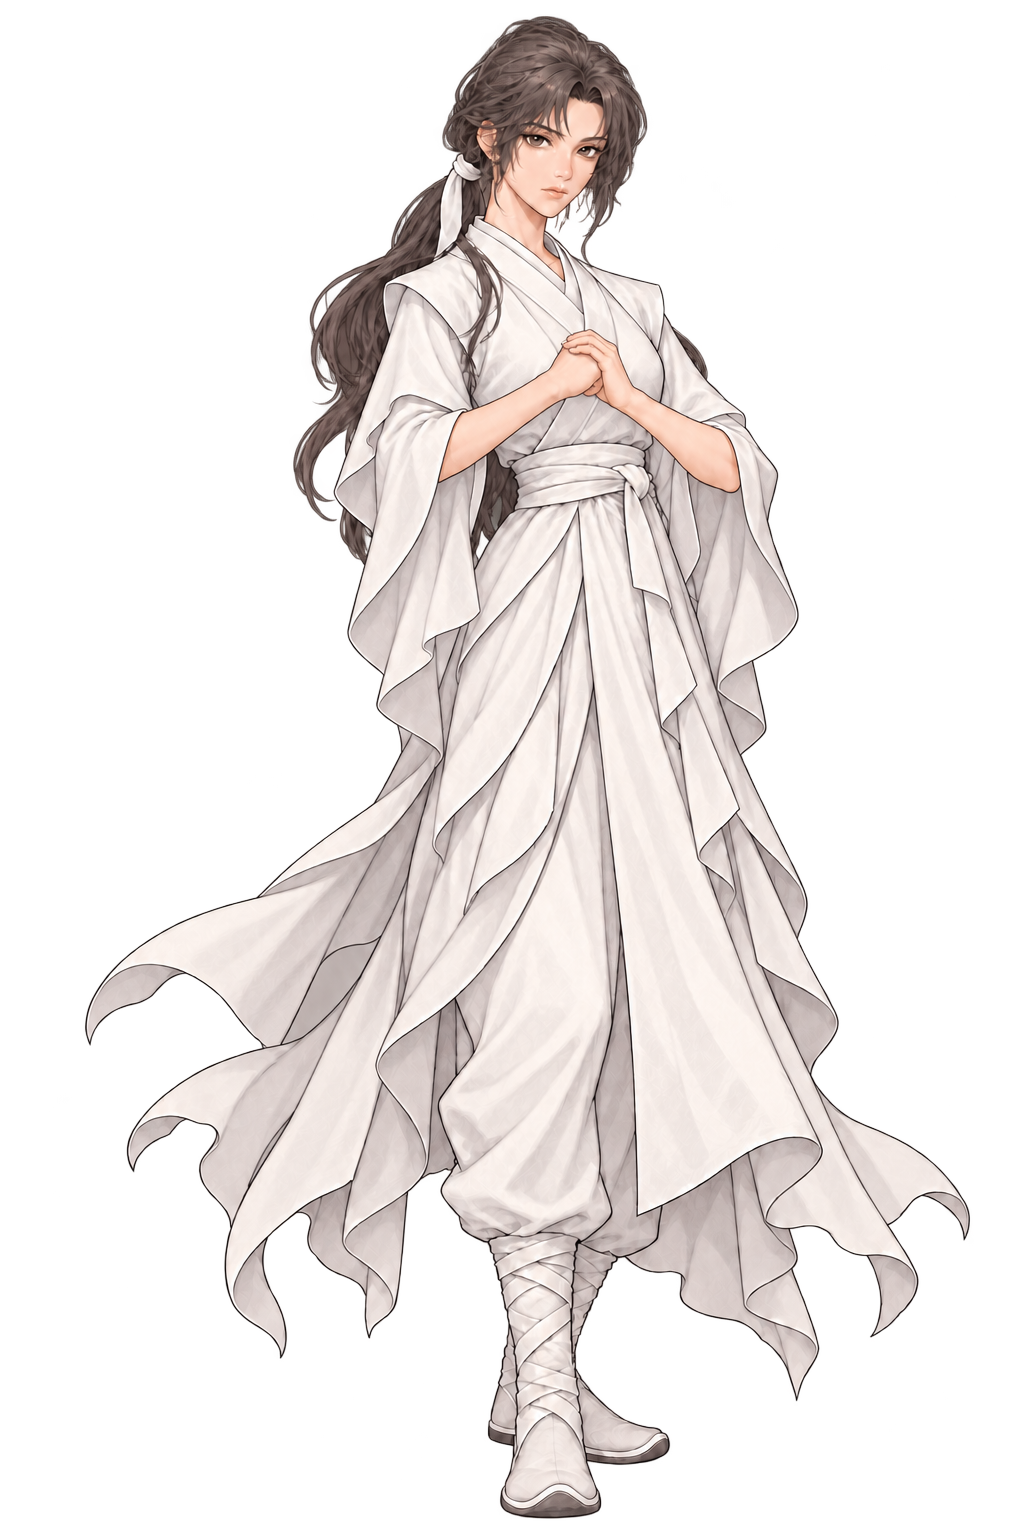
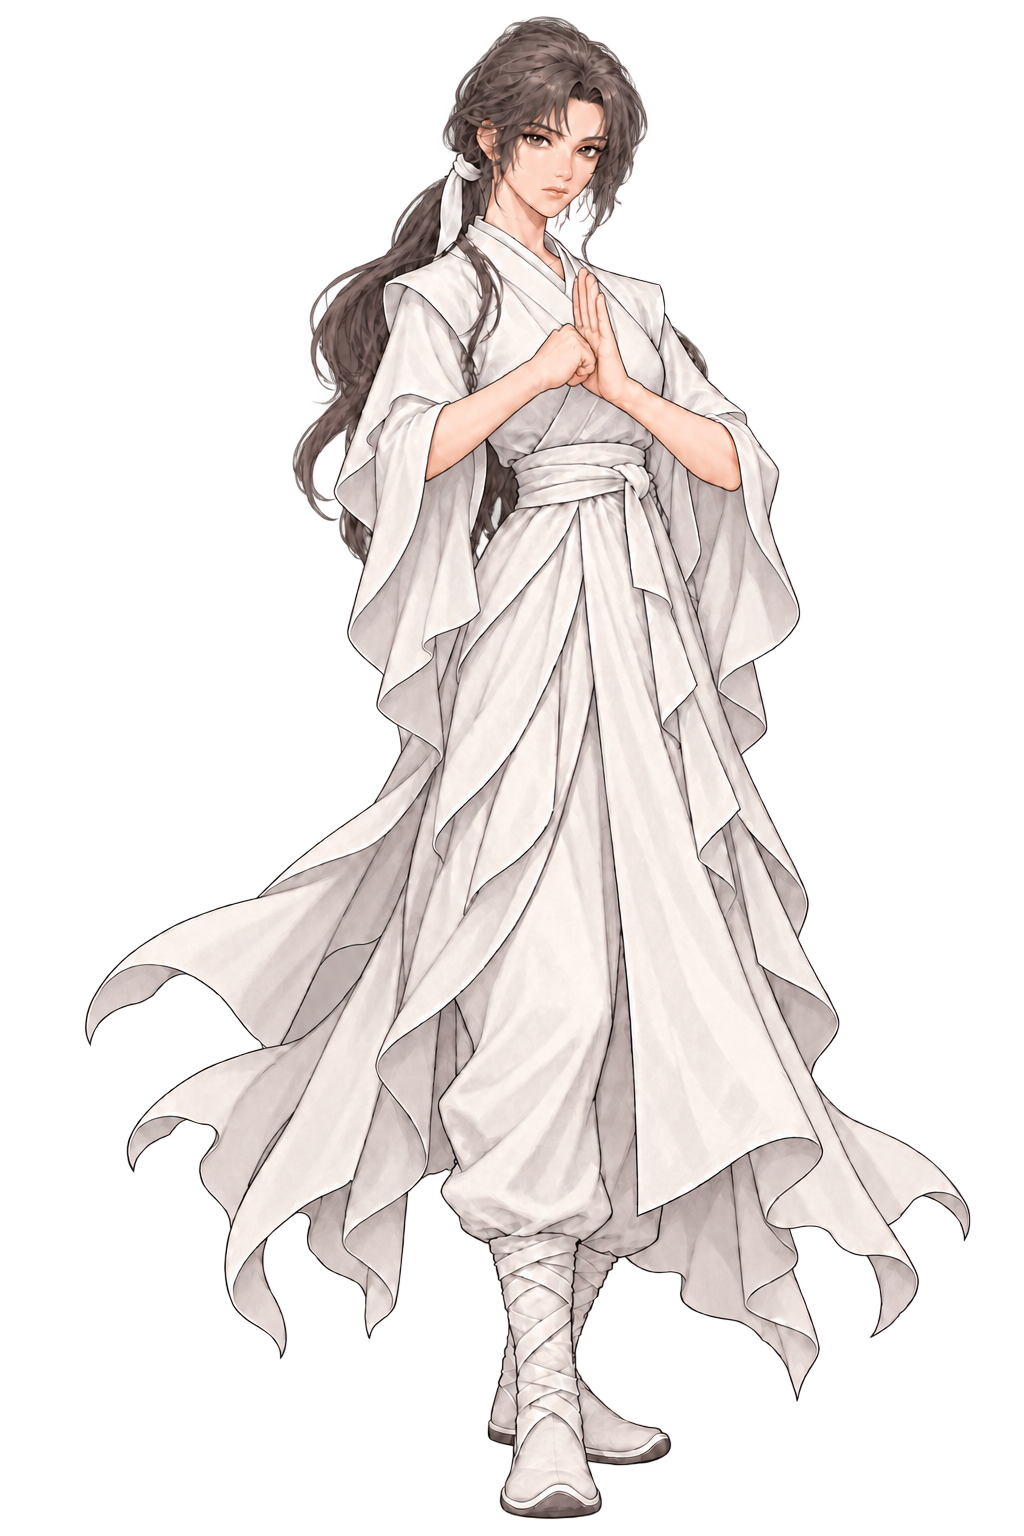
art: clarify open-palm Baekui salutes
Constraint: Show a straight open palm and a distinct closed fist for both characters.
Directive: Preserve faces, bare forearms and white costume designs.
Confidence: high

diff --git a/docs/wardrobe.html b/docs/wardrobe.html
@@ -106,11 +106,11 @@
   document.querySelectorAll('[data-description]').forEach(button=>button.addEventListener('click',()=>{descriptionGender=button.dataset.description;choose(entries.find(entry=>entry.id===selectedId),false);}));
   async function load() {
     try {
-      const response=await fetch('assets/outfits-v5/manifest.json?v=20261027-baekui-salute', {cache:'no-store'}); if(!response.ok)throw new Error('manifest');
+      const response=await fetch('assets/outfits-v5/manifest.json?v=20261027-baekui-salute-v3', {cache:'no-store'}); if(!response.ok)throw new Error('manifest');
       const male=await response.json();
       const valid=e=>e&&typeof e.id==='string'&&typeof e.name==='string'&&typeof e.file==='string'&&/^[a-z0-9_-]+\.png$/i.test(e.file);
       entries=(male.entries||[]).filter(valid); if(!entries.length)throw new Error('empty');
-      let female={entries:[]}; try {const result=await fetch('assets/outfits-female-v1/manifest.json?v=20261027-baekui-salute', {cache:'no-store'});if(result.ok)female=await result.json();}catch {}
+      let female={entries:[]}; try {const result=await fetch('assets/outfits-female-v1/manifest.json?v=20261027-baekui-salute-v3', {cache:'no-store'});if(result.ok)female=await result.json();}catch {}
       const pending=(female.entries||[]).filter(valid);
       femaleEntries=new Map(pending.map(entry=>[entry.id,{...entry,ready:entry.status!=='pending'}]));
       $('completion').textContent='백의 + '+(entries.length-1)+'세력 · 남녀 의상';
